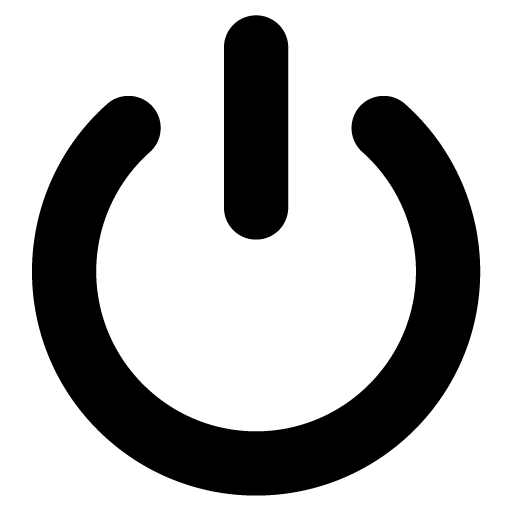
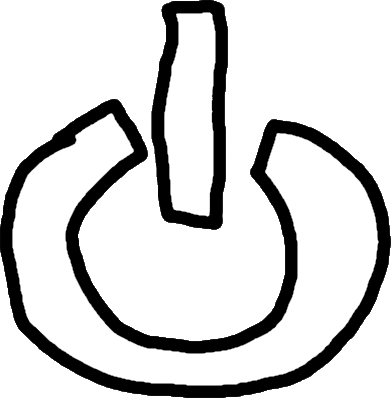
Fiksa ikon til, settings, save group, power, mute og vislab, og et par små CSS ting

diff --git a/src/main/resources/static/index.html b/src/main/resources/static/index.html
@@ -13,7 +13,7 @@
 
         </header>
         <div class="navigation-menu">
-            <img src="logo_ntnu.png" alt="NTNU" id="ntnu-logo">
+            <img src="logo.png" alt="NTNU" id="ntnu-logo">
             <nav>
                 <ul>
                     <li>Brukerside</li>
@@ -98,8 +98,8 @@
                             <label for="pro12" class="text-label">Projector 12</label>
                         </li>
                     </ul>
-                    <button id="settings-group">Group settings</button>
-                    <button id="button-savegroup">Save as group</button>
+                    <button id="settings-group"><img src="groupsettings.png" id="settingsimg" width="40px" height="40px"></button>
+                    <button id="button-savegroup"><img src="savegroup.png" id="saveimg" width="40px" height="40px"></button>
                     <script src="script.js"></script>
                 </div>
             </div>
@@ -111,7 +111,9 @@
                     <button id="buttonpower">
                         <img src="power.png" id="powerimg" width="40px" height="40px">
                     </button>
-                    <button id="buttonmute">Mute/Unmute</button>
+                    <button id="buttonmute">
+                        <img src="mute.png" id="muteimg" width="40px" height="40px">
+                    </button>
                     <button id="button1">PH1</button>
                     <button id="button2">PH2</button>
                 </div>

diff --git a/src/main/resources/static/styleNEW.css b/src/main/resources/static/styleNEW.css
@@ -8,7 +8,13 @@ and open the template in the editor.
     Author     : Erik
 */
 
+* {
+    margin: 0;
+}
 
+.row {
+    margin: 1%;
+}
 .column {
     float: left;
     border: solid black 1px;
@@ -68,17 +74,19 @@ button:hover {
     cursor: pointer;
 }
 /* NAVIGATION MENU ++++++++++++++++++++++++++++++++++++++++++++++++++++*/
+.navigation-menu {
+    background-color: #999999;
+    border-bottom: black;
+}
 #ntnu-logo {
     float: left;
+    width: 5%;
 }
 
 nav ul {
     margin: 0;
-    padding: .5em;
+    padding: .6em;
     overflow: hidden;
-    border: solid #262626 1px;
-    border-bottom: solid black 1px;
-    background-color: #999999;
 }
 
 nav ul li {
@@ -107,9 +115,9 @@ nav ul li:hover {
     margin-bottom: 10%;
 }
 
-#powerimg {
+/*#powerimg {
     filter: invert(1);
-}
+}*/
 
 /* PROJECTOR LIST ------------------ */
 
@@ -153,20 +161,21 @@ label:hover {
 }
 .check-label {
     float: right;
-    
+    height: 100%; 
 }
 input[type=checkbox]:checked + .check-label{
     float: right;
-    background: url('power.png') 0 0px no-repeat;
-    background-size: 30px;
+    background: url('check-icon.png');
+    background-size: 125%;
 }
 .selected-container button {
     width: 5em;
     height: 5em;
     margin: 2%;
 }
-#settings-group {
+#settings-group, #button-savegroup {
     margin-left: 10%;
+    border-radius: 10%;
 }
 
 

diff --git a/src/main/resources/static/theme.css b/src/main/resources/static/theme.css
@@ -7,11 +7,17 @@ and open the template in the editor.
     Created on : Mar 14, 2018, 9:42:34 AM
     Author     : Erik
 */
+html {
+    height: 100%;
+    min-height: 100%;
+}
+
 
 body {
     font-family: 'Open Sans','Arial',sans-serif;
     font-size: 14px;
     background-color: #262626;
+    height: 100%;
 }
 
 * {
